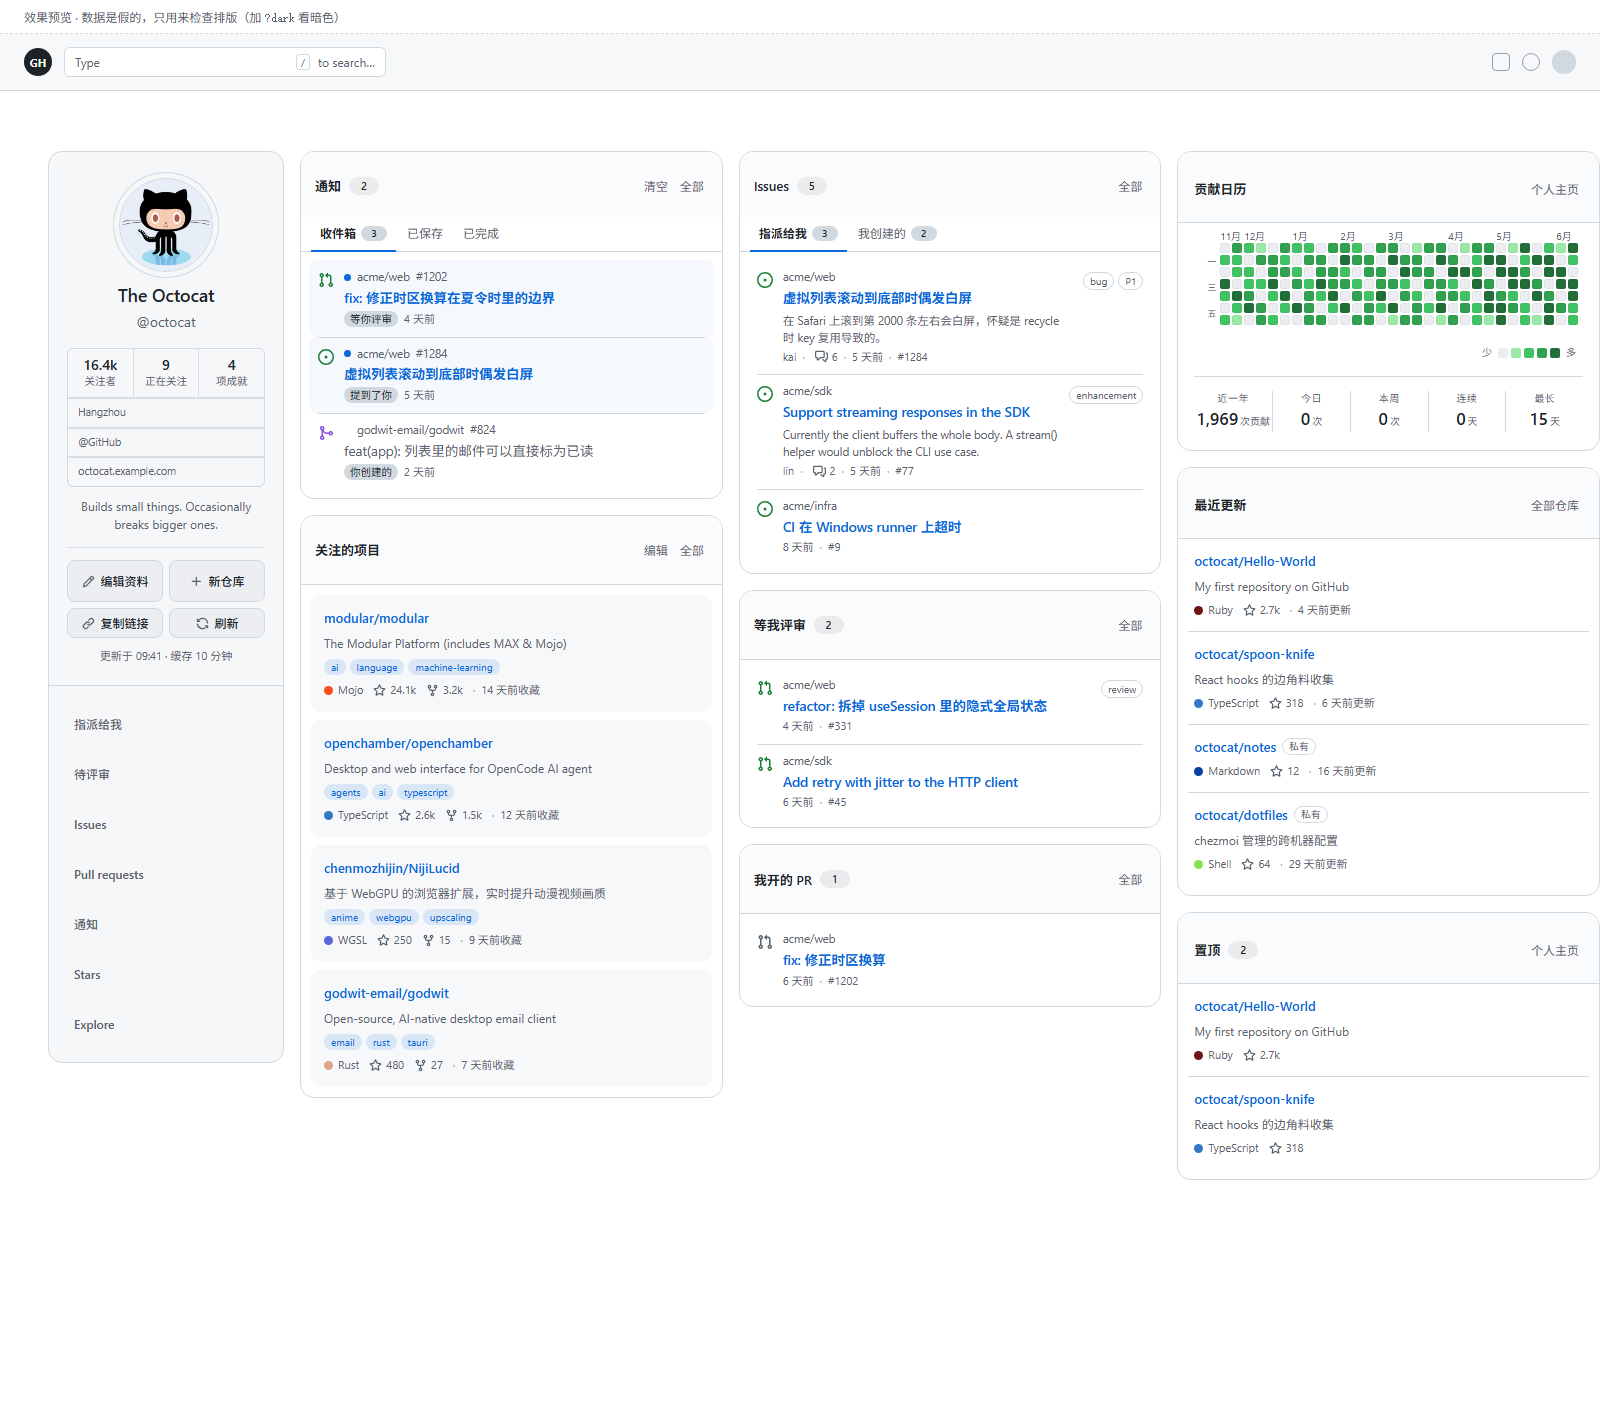
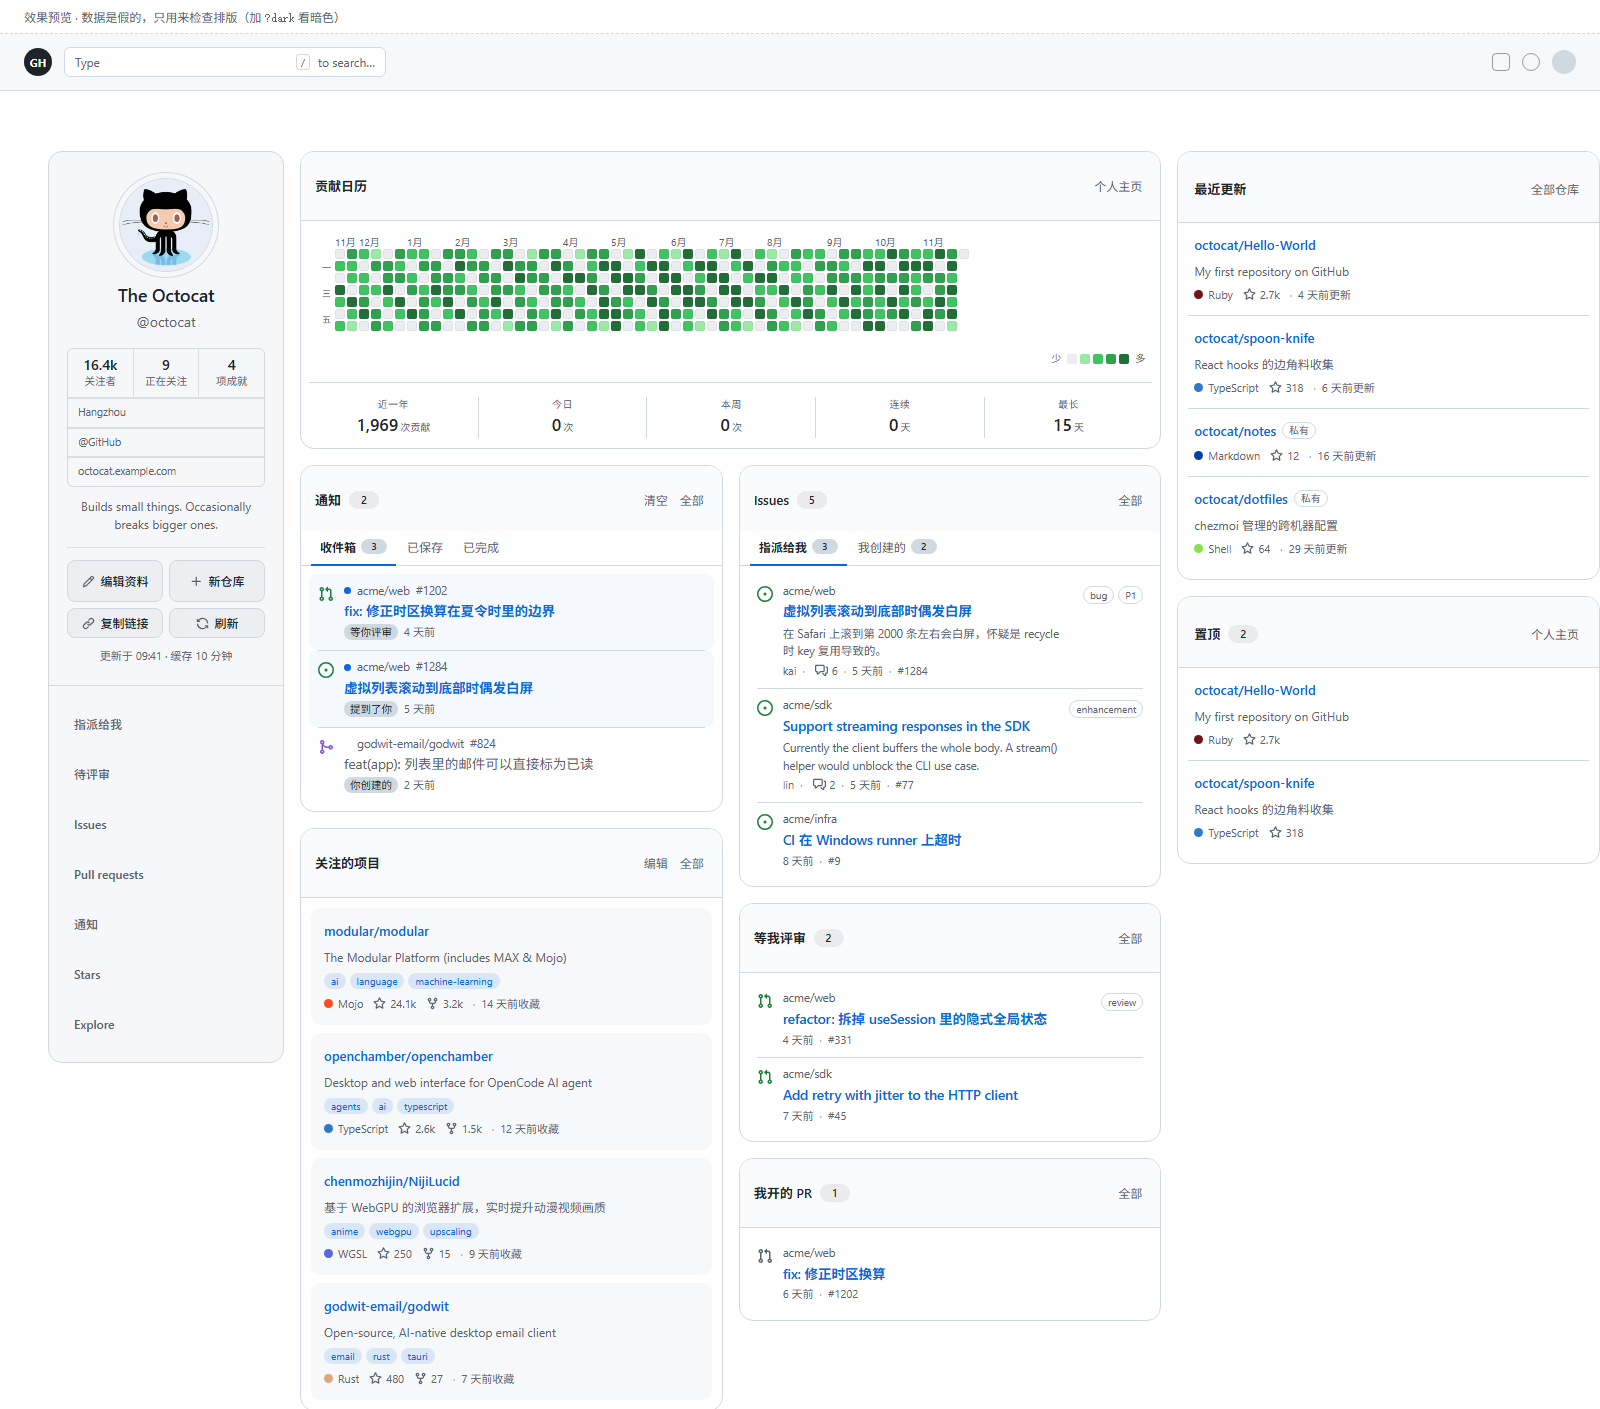
feat: span contribution heatmap across two columns

diff --git a/src/content/ui.js b/src/content/ui.js
@@ -101,13 +101,11 @@ GHW.ui = (function () {
     var first = new Date(days[0].date + 'T00:00:00');
     var pad = first.getDay(); // 0=周日，网格行也是从周日开始
 
-    // grid-auto-flow: column + 7 行，前面的空格补到第一列即可对齐星期
     var grid = h('div', { class: 'ghw-heat-grid' });
     for (var p = 0; p < pad; p++) {
       grid.appendChild(h('div', { class: 'ghw-heat-cell is-pad' }));
     }
-    for (var i = 0; i < days.length; i++) {
-      var d = days[i];
+    days.forEach(function (d) {
       grid.appendChild(
         h('div', {
           class: 'ghw-heat-cell',
@@ -115,9 +113,8 @@ GHW.ui = (function () {
           title: d.date + ' · ' + (d.count ? d.count + ' 次贡献' : '没有贡献')
         })
       );
-    }
+    });
 
-    // 月份标签：月份第一次出现的那一列
     var monthRow = h('div', { class: 'ghw-heat-months' });
     var lastMonth = null;
     var colCount = Math.ceil((days.length + pad) / 7);
@@ -127,12 +124,11 @@ GHW.ui = (function () {
       var key = days[idx].date.slice(0, 7);
       if (key === lastMonth) continue;
       lastMonth = key;
-      var mm = parseInt(key.slice(5, 7), 10);
       monthRow.appendChild(
         h('span', {
           class: 'ghw-heat-month',
           style: { left: c * 12 + 'px' },
-          text: MONTHS[mm - 1]
+          text: MONTHS[parseInt(key.slice(5, 7), 10) - 1]
         })
       );
     }
@@ -149,15 +145,27 @@ GHW.ui = (function () {
       h('span', { text: '' })
     );
 
+    var heatFrame = h(
+      'div',
+      {
+        class: 'ghw-heat-frame',
+        role: 'img',
+        tabindex: '0',
+        'aria-label': '近一年贡献热力图，颜色越深贡献越多，默认显示最新日期'
+      },
+      weekday,
+      grid
+    );
+
     body.appendChild(
       h(
         'div',
         { class: 'ghw-heat' },
         monthRow,
-        h('div', { class: 'ghw-heat-frame' }, weekday, grid),
+        heatFrame,
         h(
           'div',
-          { class: 'ghw-heat-legend' },
+          { class: 'ghw-heat-legend', 'aria-hidden': 'true' },
           h('span', { text: '少' }),
           h('i', { 'data-level': '0' }),
           h('i', { 'data-level': '1' }),
@@ -168,6 +176,9 @@ GHW.ui = (function () {
         )
       )
     );
+
+    // 窄屏仍有横向溢出时，默认定位到最新一端。
+    heatFrame.scrollLeft = heatFrame.scrollWidth;
 
     var stats = [
       { k: '近一年', v: U.fmtNum(data.total), s: '次贡献' },
@@ -1075,6 +1086,12 @@ GHW.ui = (function () {
       )
     );
 
+    var featureCol = h(
+      'div',
+      { class: 'ghw-col ghw-col-feature' },
+      settings.panels.contributions ? contributionsPanel : null
+    );
+
     var mainCol = h(
       'div',
       { class: 'ghw-col ghw-col-main' },
@@ -1093,7 +1110,6 @@ GHW.ui = (function () {
     var thirdCol = h(
       'div',
       { class: 'ghw-col ghw-col-third' },
-      settings.panels.contributions ? contributionsPanel : null,
       settings.panels.repos
         ? panel('repos', '最近更新', '/' + login + '?tab=repositories&sort=updated', '全部仓库')
         : null,
@@ -1103,6 +1119,7 @@ GHW.ui = (function () {
     /* --- 面板拖动排序 --- */
 
     var cols = [
+      { el: featureCol, key: 'feature' },
       { el: mainCol, key: 'main' },
       { el: sideCol, key: 'side' },
       { el: thirdCol, key: 'third' }
@@ -1116,9 +1133,9 @@ GHW.ui = (function () {
 
     function applyLayout() {
       var layout = settings.layout || {};
-      // 两列时代的旧布局没有 third：结构变了就直接回到默认分布，
-      // 免得旧数组把所有面板都塞进前两列、第三列空着。
-      if (!Array.isArray(layout.third)) layout = {};
+      // 旧布局没有 feature：贡献日历升级为跨两列后直接回默认分布，
+      // 免得旧数组把它塞回窄列，重新出现显示拥挤的问题。
+      if (!Array.isArray(layout.feature)) layout = {};
       var all = {};
       cols.forEach(function (c) {
         panelsIn(c.el).forEach(function (p) {
@@ -1151,7 +1168,7 @@ GHW.ui = (function () {
     }
 
     function persistLayout() {
-      var next = { main: [], side: [], third: [] };
+      var next = { feature: [], main: [], side: [], third: [] };
       cols.forEach(function (c) {
         next[c.key] = panelsIn(c.el).map(function (p) {
           return p.dataset.panel;
@@ -1175,8 +1192,8 @@ GHW.ui = (function () {
     }
 
     function wireDrag() {
-      panelsIn(mainCol)
-        .concat(panelsIn(sideCol), panelsIn(thirdCol))
+      panelsIn(featureCol)
+        .concat(panelsIn(mainCol), panelsIn(sideCol), panelsIn(thirdCol))
         .forEach(function (panel) {
           var head = panel.querySelector('.ghw-panel-head');
           if (!head) return;
@@ -1262,6 +1279,7 @@ GHW.ui = (function () {
       'div',
       { class: 'ghw-wrap', id: 'ghw-root-inner' },
       rail,
+      featureCol,
       mainCol,
       sideCol,
       thirdCol,

diff --git a/src/content/styles.css b/src/content/styles.css
@@ -26,7 +26,7 @@
   --ghw-hover: color-mix(in srgb, var(--ghw-accent) 6%, var(--ghw-muted-bg));
   --ghw-focus: color-mix(in srgb, var(--ghw-accent) 30%, transparent);
 
-  /* 贡献格子的五档颜色 */
+  /* 贡献热力图的五档颜色 */
   --ghw-l0: #ebedf0;
   --ghw-l1: #9be9a8;
   --ghw-l2: #40c463;
@@ -119,14 +119,15 @@ html.ghw-native-hidden body footer {
 }
 
 /* 版面：左侧身份区 + 三列面板。
-   容器 ≥1401px 时是「身份区 | 列 1 | 列 2 | 列 3」，
-   中等宽度退成两列面板（身份区横跨整行），窄屏全部堆成一列。
+   宽屏下贡献日历横跨中间两列，最近更新 / 置顶独立占右侧；
+   中等宽度退成两列面板（贡献日历横跨顶部），窄屏全部堆成一列。
    列宽变化只改 CSS，面板归属由 ui.js 的拖动布局决定。 */
 .ghw-wrap {
   display: grid;
   grid-template-columns: repeat(2, minmax(0, 1fr));
   grid-template-areas:
     'rail rail'
+    'feature feature'
     'main side'
     'third third';
   gap: 16px;
@@ -138,6 +139,11 @@ html.ghw-native-hidden body footer {
   display: flex;
   flex-direction: column;
   gap: 14px;
+  min-width: 0;
+}
+
+.ghw-col-feature {
+  grid-area: feature;
   min-width: 0;
 }
 
@@ -185,7 +191,9 @@ html.ghw-native-hidden body footer {
 @container ghw (min-width: 1401px) {
   .ghw-wrap {
     grid-template-columns: 236px repeat(3, minmax(0, 1fr));
-    grid-template-areas: 'rail main side third';
+    grid-template-areas:
+      'rail feature feature third'
+      'rail main side third';
   }
 
   .ghw-rail {
@@ -399,6 +407,7 @@ html.ghw-native-hidden body footer {
     grid-template-columns: minmax(0, 1fr);
     grid-template-areas:
       'rail'
+      'feature'
       'main'
       'side'
       'third';
@@ -1452,6 +1461,11 @@ html.ghw-native-hidden body footer {
   padding-bottom: 6px;
   scrollbar-width: thin;
   scrollbar-color: var(--ghw-border) transparent;
+}
+
+.ghw-heat-frame:focus-visible {
+  outline: 2px solid var(--ghw-accent);
+  outline-offset: 2px;
 }
 
 .ghw-heat-frame::-webkit-scrollbar {

diff --git a/src/core/store.js b/src/core/store.js
@@ -32,8 +32,8 @@ GHW.store = (function () {
     starredCount: 6,
     // 手动挑选要显示的关注项目（["owner/name", ...]，空数组 = 用上面那个默认数量）
     starredPicks: [],
-    // 面板顺序（拖动后保存）：{ main: [...], side: [...], third: [...] }
-    layout: { main: [], side: [], third: [] },
+    // 面板顺序（拖动后保存）：feature 为跨两列的贡献日历区
+    layout: { feature: [], main: [], side: [], third: [] },
     panels: {
       contributions: true,
       notifications: true,
@@ -100,15 +100,16 @@ GHW.store = (function () {
     for (var k in saved) {
       if (!Object.prototype.hasOwnProperty.call(saved, k)) continue;
       if (k === 'layout' && saved.layout && typeof saved.layout === 'object') {
-        // 两列时代的布局没有 third 键：结构升级到三列后直接回默认分布，
-        // 否则旧数组会把所有面板都塞进前两列，第三列永远空着。
-        if (!Array.isArray(saved.layout.third)) {
-          out.layout = { main: [], side: [], third: [] };
+        // 旧布局没有 feature 键：贡献日历升级为跨两列后直接回默认分布，
+        // 否则它会被旧数组塞回窄列，重新出现显示拥挤的问题。
+        if (!Array.isArray(saved.layout.feature)) {
+          out.layout = { feature: [], main: [], side: [], third: [] };
         } else {
           out.layout = {
+            feature: saved.layout.feature.slice(),
             main: Array.isArray(saved.layout.main) ? saved.layout.main.slice() : [],
             side: Array.isArray(saved.layout.side) ? saved.layout.side.slice() : [],
-            third: saved.layout.third.slice()
+            third: Array.isArray(saved.layout.third) ? saved.layout.third.slice() : []
           };
         }
       } else if (k === 'panels' && saved.panels && typeof saved.panels === 'object') {

diff --git a/src/popup/popup.js b/src/popup/popup.js
@@ -102,7 +102,7 @@
   });
 
   els.resetLayout.addEventListener('click', function () {
-    STORE.saveSettings({ layout: { main: [], side: [], third: [] } }).then(function () {
+    STORE.saveSettings({ layout: { feature: [], main: [], side: [], third: [] } }).then(function () {
       flash('布局已重置，刷新 GitHub 首页生效');
     });
   });

diff --git a/README.md b/README.md
@@ -35,7 +35,7 @@
 | 最近更新 | `/<you>?tab=repositories&sort=updated` |
 | 置顶 / 个人信息 | `/<you>` |
 
-贡献日历不是装饰图：它从页面的 `<tool-tip>` 里读每天精确的次数，所以「今日 / 本周 / 连续 / 最长」都是算出来的。
+贡献日历不是装饰图：它从页面的 `<tool-tip>` 里读每天精确的次数，所以「今日 / 本周 / 连续 / 最长」都是算出来的。宽屏下横向热力图横跨中间两列，保留每天的贡献等级和日期提示；窄屏仍有溢出时默认定位到最新一端。
 
 通知面板按 GitHub 的文件夹分成「收件箱 / 已保存 / 已完成」三个 tab：收件箱随首页一起加载，另外两个点开时才抓。每行带仓库 `#编号`、标题、通知原因（等你评审 / 提到了你 / 你创建的…）和时间，未读的有蓝点和加粗标题。面板头的数字是收件箱未读数。
 
@@ -47,9 +47,9 @@ issue / PR 每行会带上仓库 `#编号`、作者、评论数、时间（或 o
 
 ## 交互
 
-**拖动排序**：面板按住标题栏拖到任意位置（三列之间也能拖）；「关注的项目」里的仓库卡片也能直接拖动。「关注的项目」的顺序会存进 `starredPicks`，面板布局存进 `layout`，都在 `chrome.storage` 里。拖乱了就去弹窗点「重置面板布局」。
+**拖动排序**：面板按住标题栏拖到任意位置（三列与跨两列区之间也能拖）；「关注的项目」里的仓库卡片也能直接拖动。「关注的项目」的顺序会存进 `starredPicks`，面板布局存进 `layout`，都在 `chrome.storage` 里。拖乱了就去弹窗点「重置面板布局」。
 
-**版面**：宽屏时是「左侧身份区 + 三列面板」；左侧资料、操作按钮和快捷入口合并成一张大卡，浅色主题使用浅中性灰，暗色主题跟随 GitHub 自己的深色表面。右侧每块内容独立成卡，颜色与其它面板一致，用浅边框、大留白和开放式列表保持轻盈，卡片之间有明确间距。窗口不够宽会自动退成两列（身份区横跨顶部），再窄就全部堆成一列。只有列表内容真的超过上限时才启用卡片内滚动；短卡片不创建内部滚动容器，滚轮直接滚动整页。
+**版面**：宽屏时是「左侧身份区 + 三列面板」，贡献日历横跨中间两列，「最近更新 / 置顶」独立占右侧，通知和 Issues 等放在下方两列。左侧资料、操作按钮和快捷入口合并成一张大卡，浅色主题使用浅中性灰，暗色主题跟随 GitHub 自己的深色表面。窗口不够宽会自动退成两列（贡献日历横跨顶部），再窄就全部堆成一列。只有列表内容真的超过上限时才启用卡片内滚动；短卡片不创建内部滚动容器，滚轮直接滚动整页。
 
 **身份区**：头像和昵称点回个人主页，关注者 / 正在关注 / 成就是可点链接，卡片里还有「编辑资料」「新仓库」「复制链接」「刷新」。
 
